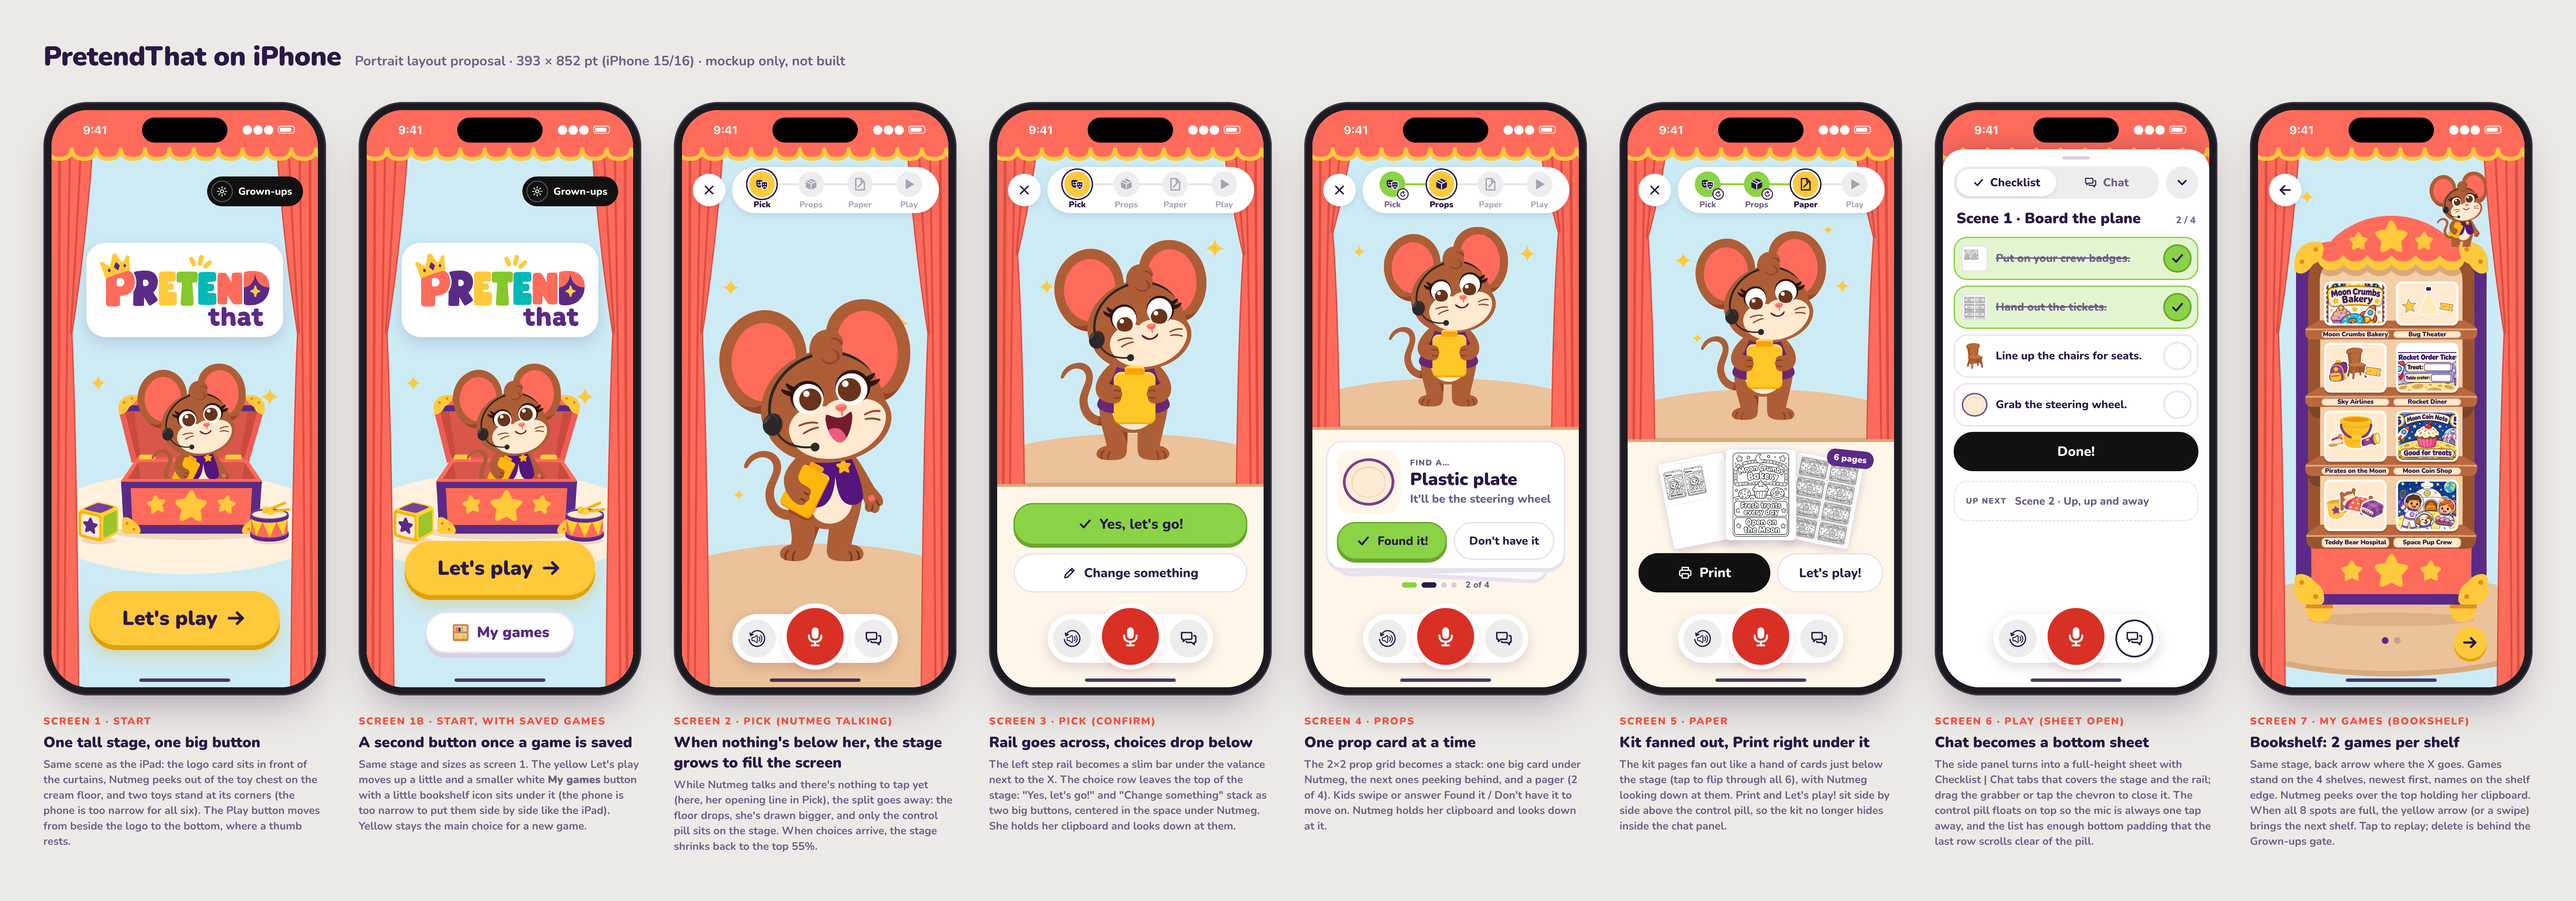
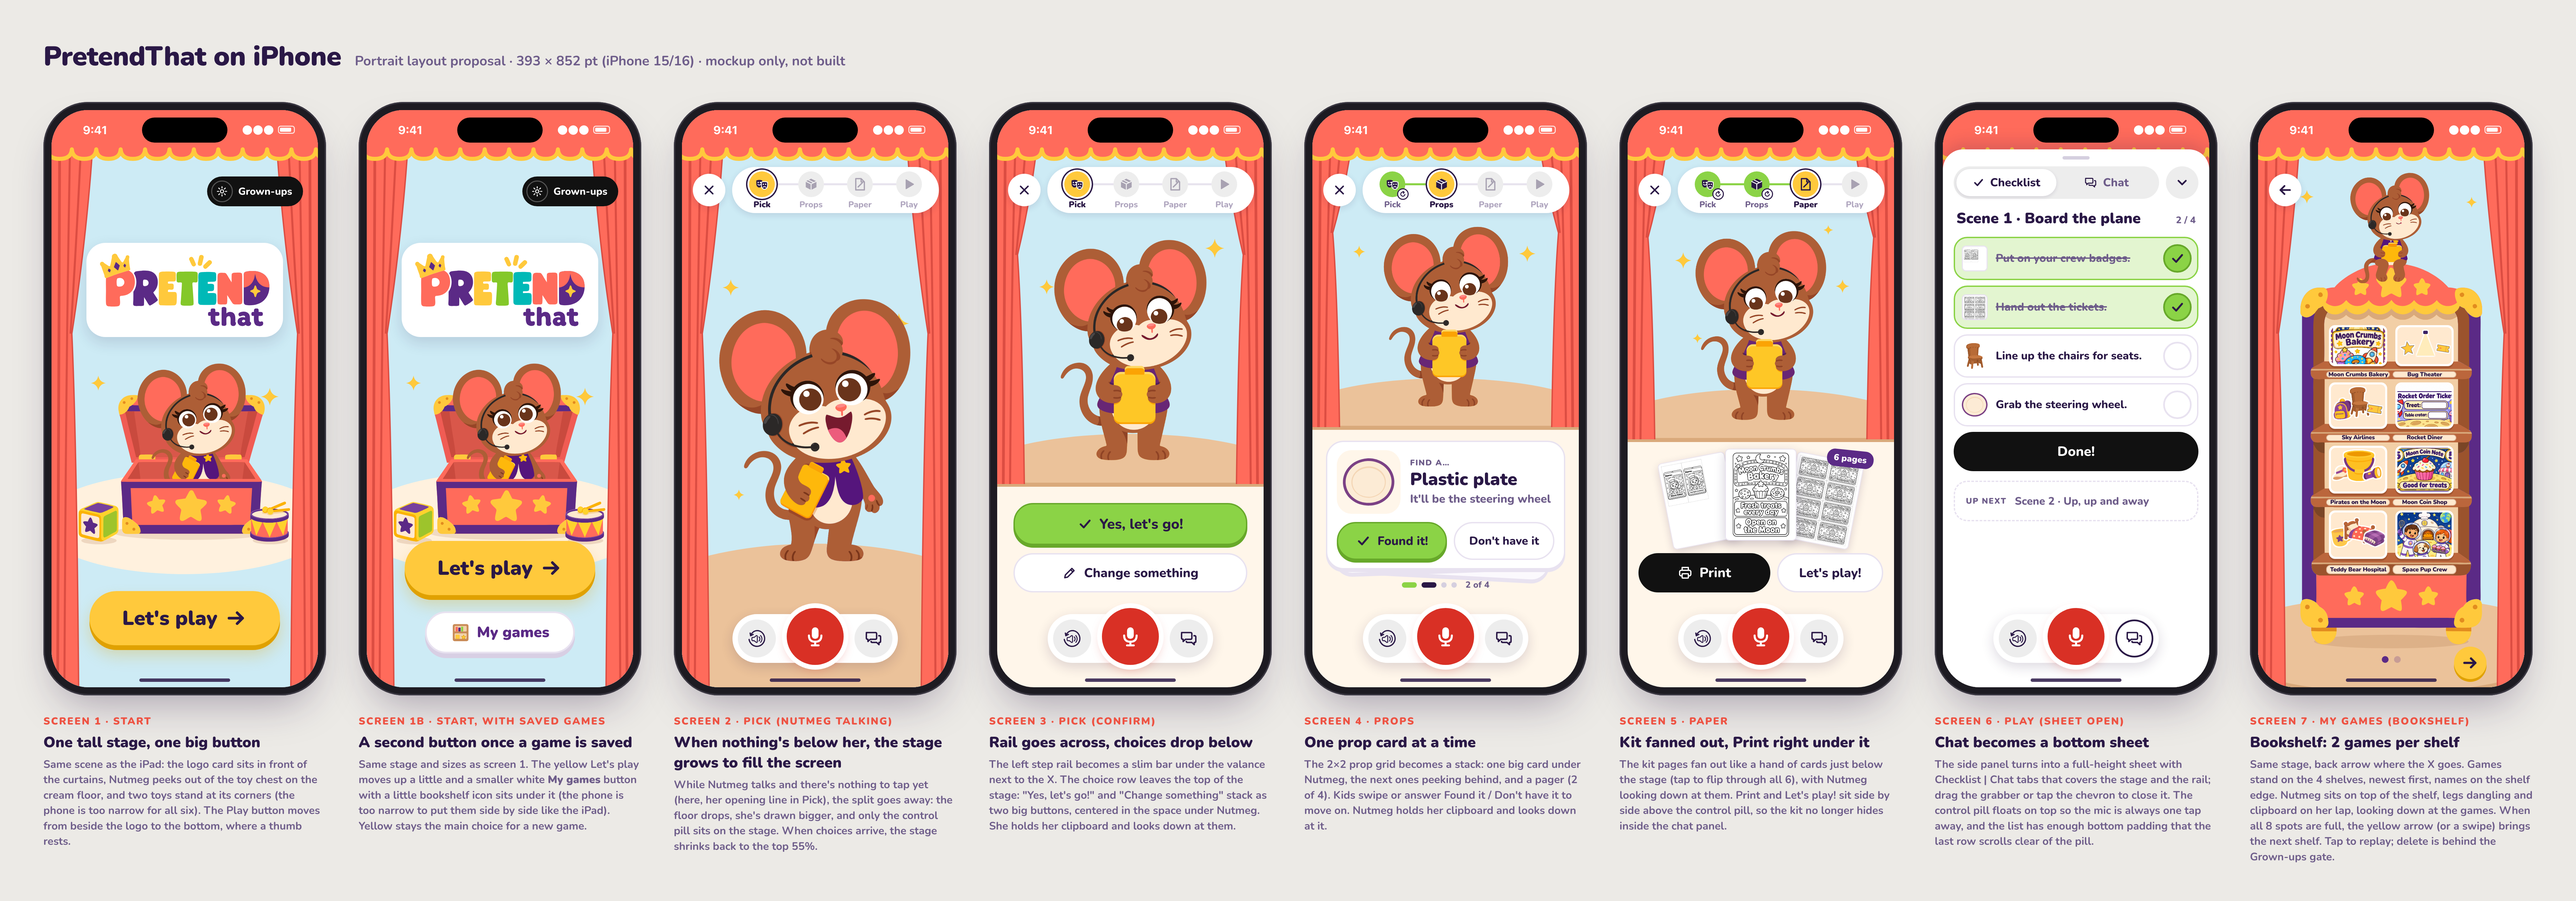
art: perky sitting body (iPhone bookshelf), iPhone screen 7 update, reference images

Changed region(s): [[0.8732, 0.1872, 0.9667, 0.7801], [0.8732, 0.8737, 0.9979, 0.9673]]

diff --git a/design/mockups/iphone/index.html b/design/mockups/iphone/index.html
@@ -112,7 +112,7 @@ body{background:#ECEAE6;font-family:"SF Pro Rounded",ui-rounded,"Nunito",system-
 /* my games bookshelf (screen 7) */
 .btile{position:absolute;z-index:6;border-radius:9px;background:#fff;padding:3px;box-shadow:0 3px 0 rgba(120,60,30,.35)}
 .bpic{position:relative;width:100%;height:100%;border-radius:7px;overflow:hidden;background:var(--cream)}
-.blabel{position:absolute;z-index:6;border-radius:6px;background:var(--cream);color:var(--ink);font-size:9.5px;font-weight:900;letter-spacing:-.15px;line-height:1;display:flex;align-items:center;justify-content:center;white-space:nowrap;overflow:hidden;box-shadow:inset 0 0 0 1px rgba(155,83,45,.35)}
+.blabel{position:absolute;z-index:6;border-radius:6px;background:var(--cream);color:var(--ink);font-size:8.8px;font-weight:900;letter-spacing:-.2px;line-height:1;display:flex;align-items:center;justify-content:center;white-space:nowrap;overflow:hidden;box-shadow:inset 0 0 0 1px rgba(155,83,45,.35)}
 .dots7{position:absolute;left:0;right:0;display:flex;justify-content:center;gap:8px;z-index:30}
 .dots7 i{display:block;width:10px;height:10px;border-radius:50%;background:rgba(91,42,134,.25)}
 .dots7 i.on{background:var(--purple)}
@@ -517,29 +517,27 @@ body{background:#ECEAE6;font-family:"SF Pro Rounded",ui-rounded,"Nunito",system-
       <div class="island"></div>
       <div class="status"><span>9:41</span><span class="bat">●●● <i></i></span></div>
       <div class="stage full">
-        <div class="floor" style="width:520px;height:150px;top:686px"></div>
+        <div class="floor" style="width:520px;height:150px;top:718px"></div>
         <svg class="spark" style="left:62px;top:118px;width:20px;height:20px"><use href="#sparkle"/></svg>
         <svg class="spark" style="right:70px;top:128px;width:16px;height:16px"><use href="#sparkle"/></svg>
-        <div style="position:absolute;left:73.5px;top:742.2px;width:246.0px;height:20px;border-radius:50%;background:rgba(160,98,58,.18);z-index:4"></div>
-        <img src="img/bookshelf-iphone.svg" style="position:absolute;left:53.5px;top:156.0px;width:286.0px;height:600.2px;z-index:5" alt="">
-        <div class="btile" style="left:97.7px;top:253.2px;width:92.0px;height:64.9px"><div class="bpic"><img src="img/kit-sign-moon.png" style="position:absolute;left:0;top:0;width:100%;height:100%;object-fit:cover;object-position:50% 10%;transform:scale(1.08)"></div></div><div class="blabel" style="left:93.7px;top:326.0px;width:100px;height:10.7px">Moon Crumbs Bakery</div><div class="btile" style="left:203.7px;top:253.2px;width:92.0px;height:64.9px"><div class="bpic"><img src="img/prop-star.svg" style="position:absolute;object-fit:contain;filter:drop-shadow(1.5px 0 0 #fff) drop-shadow(-1.5px 0 0 #fff) drop-shadow(0 1.5px 0 #fff) drop-shadow(0 -1.5px 0 #fff);left:2px;top:19px;width:29px;height:29px;transform:rotate(-8deg)"><img src="img/prop-spotlight.svg" style="position:absolute;object-fit:contain;filter:drop-shadow(1.5px 0 0 #fff) drop-shadow(-1.5px 0 0 #fff) drop-shadow(0 1.5px 0 #fff) drop-shadow(0 -1.5px 0 #fff);left:24px;top:4px;width:42px;height:42px"><img src="img/prop-ticket.svg" style="position:absolute;object-fit:contain;filter:drop-shadow(1.5px 0 0 #fff) drop-shadow(-1.5px 0 0 #fff) drop-shadow(0 1.5px 0 #fff) drop-shadow(0 -1.5px 0 #fff);left:58px;top:21px;width:27px;height:27px;transform:rotate(9deg)"></div></div><div class="blabel" style="left:199.7px;top:326.0px;width:100px;height:10.7px">Bug Theater</div><div class="btile" style="left:97.7px;top:343.6px;width:92.0px;height:73.5px"><div class="bpic"><img src="img/prop-backpack.svg" style="position:absolute;object-fit:contain;filter:drop-shadow(1.5px 0 0 #fff) drop-shadow(-1.5px 0 0 #fff) drop-shadow(0 1.5px 0 #fff) drop-shadow(0 -1.5px 0 #fff);left:2px;top:22px;width:32px;height:32px;transform:rotate(-8deg)"><img src="img/prop-chair.svg" style="position:absolute;object-fit:contain;filter:drop-shadow(1.5px 0 0 #fff) drop-shadow(-1.5px 0 0 #fff) drop-shadow(0 1.5px 0 #fff) drop-shadow(0 -1.5px 0 #fff);left:21px;top:4px;width:47px;height:47px"><img src="img/prop-ticket.svg" style="position:absolute;object-fit:contain;filter:drop-shadow(1.5px 0 0 #fff) drop-shadow(-1.5px 0 0 #fff) drop-shadow(0 1.5px 0 #fff) drop-shadow(0 -1.5px 0 #fff);left:54px;top:24px;width:31px;height:31px;transform:rotate(9deg)"></div></div><div class="blabel" style="left:93.7px;top:425.6px;width:100px;height:10.7px">Sky Airlines</div><div class="btile" style="left:203.7px;top:343.6px;width:92.0px;height:73.5px"><div class="bpic"><img src="img/kit-tickets.png" style="position:absolute;left:0;top:0;width:100%;height:100%;object-fit:cover;object-position:40% 75%;transform:scale(1.2)"></div></div><div class="blabel" style="left:199.7px;top:425.6px;width:100px;height:10.7px">Rocket Diner</div><div class="btile" style="left:97.7px;top:443.3px;width:92.0px;height:75.6px"><div class="bpic"><img src="img/prop-hat.svg" style="position:absolute;object-fit:contain;filter:drop-shadow(1.5px 0 0 #fff) drop-shadow(-1.5px 0 0 #fff) drop-shadow(0 1.5px 0 #fff) drop-shadow(0 -1.5px 0 #fff);left:2px;top:23px;width:33px;height:33px;transform:rotate(-8deg)"><img src="img/prop-bucket.svg" style="position:absolute;object-fit:contain;filter:drop-shadow(1.5px 0 0 #fff) drop-shadow(-1.5px 0 0 #fff) drop-shadow(0 1.5px 0 #fff) drop-shadow(0 -1.5px 0 #fff);left:20px;top:5px;width:48px;height:48px"><img src="img/prop-flashlight.svg" style="position:absolute;object-fit:contain;filter:drop-shadow(1.5px 0 0 #fff) drop-shadow(-1.5px 0 0 #fff) drop-shadow(0 1.5px 0 #fff) drop-shadow(0 -1.5px 0 #fff);left:53px;top:24px;width:32px;height:32px;transform:rotate(9deg)"></div></div><div class="blabel" style="left:93.7px;top:527.3px;width:100px;height:11.1px">Pirates on the Moon</div><div class="btile" style="left:203.7px;top:443.3px;width:92.0px;height:75.6px"><div class="bpic"><img src="img/kit-money.png" style="position:absolute;left:0;top:0;width:100%;height:100%;object-fit:cover;object-position:50% 60%;transform:scale(1.06)"></div></div><div class="blabel" style="left:199.7px;top:527.3px;width:100px;height:11.1px">Moon Coin Shop</div><div class="btile" style="left:97.7px;top:545.4px;width:92.0px;height:76.3px"><div class="bpic"><img src="img/prop-cup.svg" style="position:absolute;object-fit:contain;filter:drop-shadow(1.5px 0 0 #fff) drop-shadow(-1.5px 0 0 #fff) drop-shadow(0 1.5px 0 #fff) drop-shadow(0 -1.5px 0 #fff);left:2px;top:23px;width:34px;height:34px;transform:rotate(-8deg)"><img src="img/prop-teddy-bed.svg" style="position:absolute;object-fit:contain;filter:drop-shadow(1.5px 0 0 #fff) drop-shadow(-1.5px 0 0 #fff) drop-shadow(0 1.5px 0 #fff) drop-shadow(0 -1.5px 0 #fff);left:20px;top:5px;width:49px;height:49px"><img src="img/prop-blanket.svg" style="position:absolute;object-fit:contain;filter:drop-shadow(1.5px 0 0 #fff) drop-shadow(-1.5px 0 0 #fff) drop-shadow(0 1.5px 0 #fff) drop-shadow(0 -1.5px 0 #fff);left:52px;top:24px;width:32px;height:32px;transform:rotate(9deg)"></div></div><div class="blabel" style="left:93.7px;top:631.0px;width:100px;height:14.8px">Teddy Bear Hospital</div><div class="btile" style="left:203.7px;top:545.4px;width:92.0px;height:76.3px"><div class="bpic"><img src="img/kit-badges.png" style="position:absolute;left:0;top:0;width:100%;height:100%;object-fit:cover;object-position:50% 46%;transform:scale(1.06)"></div></div><div class="blabel" style="left:199.7px;top:631.0px;width:100px;height:14.8px">Space Pup Crew</div>
+        <div style="position:absolute;left:82.5px;top:774.4px;width:228.0px;height:20px;border-radius:50%;background:rgba(160,98,58,.18);z-index:4"></div>
+        <img src="img/bookshelf-iphone.svg" style="position:absolute;left:62.5px;top:226.0px;width:268.0px;height:562.4px;z-index:5" alt="">
+        <div class="btile" style="left:104.7px;top:317.4px;width:86.0px;height:60.5px"><div class="bpic"><img src="img/kit-sign-moon.png" style="position:absolute;left:0;top:0;width:100%;height:100%;object-fit:cover;object-position:50% 10%;transform:scale(1.08)"></div></div><div class="blabel" style="left:100.7px;top:385.5px;width:94px;height:9.7px">Moon Crumbs Bakery</div><div class="btile" style="left:202.7px;top:317.4px;width:86.0px;height:60.5px"><div class="bpic"><img src="img/prop-star.svg" style="position:absolute;object-fit:contain;filter:drop-shadow(1.5px 0 0 #fff) drop-shadow(-1.5px 0 0 #fff) drop-shadow(0 1.5px 0 #fff) drop-shadow(0 -1.5px 0 #fff);left:2px;top:18px;width:27px;height:27px;transform:rotate(-8deg)"><img src="img/prop-spotlight.svg" style="position:absolute;object-fit:contain;filter:drop-shadow(1.5px 0 0 #fff) drop-shadow(-1.5px 0 0 #fff) drop-shadow(0 1.5px 0 #fff) drop-shadow(0 -1.5px 0 #fff);left:22px;top:4px;width:39px;height:39px"><img src="img/prop-ticket.svg" style="position:absolute;object-fit:contain;filter:drop-shadow(1.5px 0 0 #fff) drop-shadow(-1.5px 0 0 #fff) drop-shadow(0 1.5px 0 #fff) drop-shadow(0 -1.5px 0 #fff);left:55px;top:19px;width:25px;height:25px;transform:rotate(9deg)"></div></div><div class="blabel" style="left:198.7px;top:385.5px;width:94px;height:9.7px">Bug Theater</div><div class="btile" style="left:104.7px;top:402.1px;width:86.0px;height:68.6px"><div class="bpic"><img src="img/prop-backpack.svg" style="position:absolute;object-fit:contain;filter:drop-shadow(1.5px 0 0 #fff) drop-shadow(-1.5px 0 0 #fff) drop-shadow(0 1.5px 0 #fff) drop-shadow(0 -1.5px 0 #fff);left:2px;top:21px;width:30px;height:30px;transform:rotate(-8deg)"><img src="img/prop-chair.svg" style="position:absolute;object-fit:contain;filter:drop-shadow(1.5px 0 0 #fff) drop-shadow(-1.5px 0 0 #fff) drop-shadow(0 1.5px 0 #fff) drop-shadow(0 -1.5px 0 #fff);left:20px;top:4px;width:44px;height:44px"><img src="img/prop-ticket.svg" style="position:absolute;object-fit:contain;filter:drop-shadow(1.5px 0 0 #fff) drop-shadow(-1.5px 0 0 #fff) drop-shadow(0 1.5px 0 #fff) drop-shadow(0 -1.5px 0 #fff);left:50px;top:22px;width:29px;height:29px;transform:rotate(9deg)"></div></div><div class="blabel" style="left:100.7px;top:478.8px;width:94px;height:9.7px">Sky Airlines</div><div class="btile" style="left:202.7px;top:402.1px;width:86.0px;height:68.6px"><div class="bpic"><img src="img/kit-tickets.png" style="position:absolute;left:0;top:0;width:100%;height:100%;object-fit:cover;object-position:40% 75%;transform:scale(1.2)"></div></div><div class="blabel" style="left:198.7px;top:478.8px;width:94px;height:9.7px">Rocket Diner</div><div class="btile" style="left:104.7px;top:495.5px;width:86.0px;height:70.5px"><div class="bpic"><img src="img/prop-hat.svg" style="position:absolute;object-fit:contain;filter:drop-shadow(1.5px 0 0 #fff) drop-shadow(-1.5px 0 0 #fff) drop-shadow(0 1.5px 0 #fff) drop-shadow(0 -1.5px 0 #fff);left:2px;top:21px;width:31px;height:31px;transform:rotate(-8deg)"><img src="img/prop-bucket.svg" style="position:absolute;object-fit:contain;filter:drop-shadow(1.5px 0 0 #fff) drop-shadow(-1.5px 0 0 #fff) drop-shadow(0 1.5px 0 #fff) drop-shadow(0 -1.5px 0 #fff);left:19px;top:4px;width:45px;height:45px"><img src="img/prop-flashlight.svg" style="position:absolute;object-fit:contain;filter:drop-shadow(1.5px 0 0 #fff) drop-shadow(-1.5px 0 0 #fff) drop-shadow(0 1.5px 0 #fff) drop-shadow(0 -1.5px 0 #fff);left:49px;top:23px;width:30px;height:30px;transform:rotate(9deg)"></div></div><div class="blabel" style="left:100.7px;top:574.1px;width:94px;height:10.1px">Pirates on the Moon</div><div class="btile" style="left:202.7px;top:495.5px;width:86.0px;height:70.5px"><div class="bpic"><img src="img/kit-money.png" style="position:absolute;left:0;top:0;width:100%;height:100%;object-fit:cover;object-position:50% 60%;transform:scale(1.06)"></div></div><div class="blabel" style="left:198.7px;top:574.1px;width:94px;height:10.1px">Moon Coin Shop</div><div class="btile" style="left:104.7px;top:591.2px;width:86.0px;height:71.2px"><div class="bpic"><img src="img/prop-cup.svg" style="position:absolute;object-fit:contain;filter:drop-shadow(1.5px 0 0 #fff) drop-shadow(-1.5px 0 0 #fff) drop-shadow(0 1.5px 0 #fff) drop-shadow(0 -1.5px 0 #fff);left:2px;top:21px;width:31px;height:31px;transform:rotate(-8deg)"><img src="img/prop-teddy-bed.svg" style="position:absolute;object-fit:contain;filter:drop-shadow(1.5px 0 0 #fff) drop-shadow(-1.5px 0 0 #fff) drop-shadow(0 1.5px 0 #fff) drop-shadow(0 -1.5px 0 #fff);left:19px;top:4px;width:46px;height:46px"><img src="img/prop-blanket.svg" style="position:absolute;object-fit:contain;filter:drop-shadow(1.5px 0 0 #fff) drop-shadow(-1.5px 0 0 #fff) drop-shadow(0 1.5px 0 #fff) drop-shadow(0 -1.5px 0 #fff);left:49px;top:23px;width:30px;height:30px;transform:rotate(9deg)"></div></div><div class="blabel" style="left:100.7px;top:671.4px;width:94px;height:13.6px">Teddy Bear Hospital</div><div class="btile" style="left:202.7px;top:591.2px;width:86.0px;height:71.2px"><div class="bpic"><img src="img/kit-badges.png" style="position:absolute;left:0;top:0;width:100%;height:100%;object-fit:cover;object-position:50% 46%;transform:scale(1.06)"></div></div><div class="blabel" style="left:198.7px;top:671.4px;width:94px;height:13.6px">Space Pup Crew</div>
         <svg class="valance" viewBox="0 0 393 84"><use href="#valance"/></svg>
         <svg class="curtain l" style="height:852px" viewBox="0 0 64 852" preserveAspectRatio="none"><use href="#curtain"/></svg>
         <svg class="curtain r" style="height:852px" viewBox="0 0 64 852" preserveAspectRatio="none"><use href="#curtain"/></svg>
       </div>
       <div class="xbtn"><svg width="24" height="24"><use href="#i-back"/></svg></div>
-      <!-- Nutmeg peeks over the shelf's top right corner, holding her clipboard -->
-      <div style="position:absolute;left:250px;top:84px;width:92px;height:118px;overflow:hidden;z-index:9">
-        <img src="img/nutmeg-idle-happy-clip.png" style="position:absolute;left:0;top:4px;width:92px">
-      </div>
-      <div class="dots7" style="top:778px"><i class="on"></i><i class=""></i></div>
-      <div class="next7" style="top:762px"><svg width="26" height="26"><use href="#i-arrow"/></svg></div>
+      <!-- Nutmeg (perky sitting body + head + focus face) sits on the top of the arch, legs dangling over the crown -->
+      <img src="img/nutmeg-sit-perky-focus.svg" style="position:absolute;left:122.8px;top:88.5px;width:147.2px;height:166.9px;z-index:9" alt="">
+      <div class="dots7" style="top:806px"><i class="on"></i><i class=""></i></div>
+      <div class="next7" style="top:792px"><svg width="26" height="26"><use href="#i-arrow"/></svg></div>
       <div class="homebar"></div>
     </div></div>
     <div class="num">Screen 7 · My games (bookshelf)</div>
     <div class="cap">
       <h2>Bookshelf: 2 games per shelf</h2>
-      <p>Same stage, back arrow where the X goes. Games stand on the 4 shelves, newest first, names on the shelf edge. Nutmeg peeks over the top holding her clipboard. When all 8 spots are full, the yellow arrow (or a swipe) brings the next shelf. Tap to replay; delete is behind the Grown-ups gate.</p>
+      <p>Same stage, back arrow where the X goes. Games stand on the 4 shelves, newest first, names on the shelf edge. Nutmeg sits on top of the shelf, legs dangling and clipboard on her lap, looking down at the games. When all 8 spots are full, the yellow arrow (or a swipe) brings the next shelf. Tap to replay; delete is behind the Grown-ups gate.</p>
     </div>
   </div>
 
